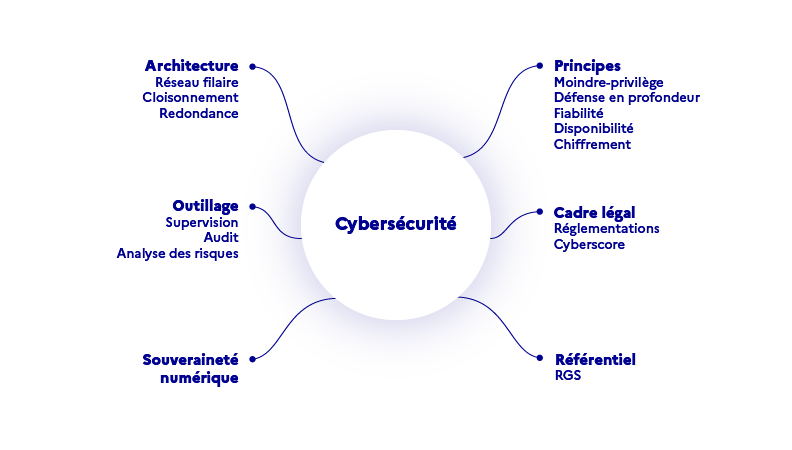
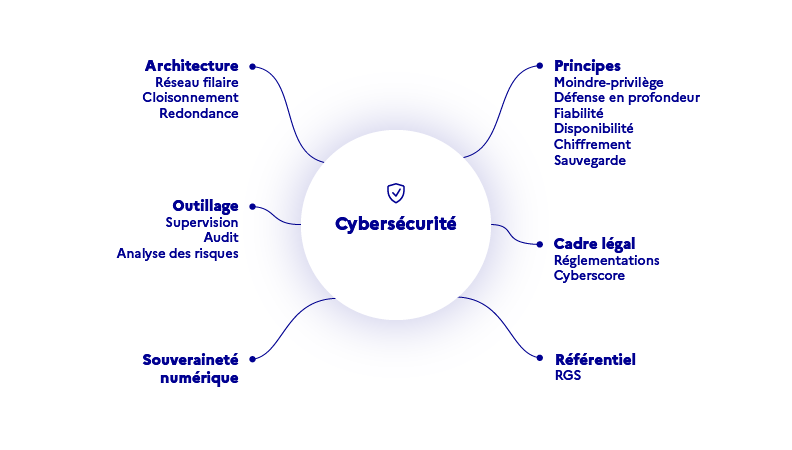
Publication restitution écoconception et sécurité

diff --git a/publications/ecoconception-securite/definitions.md b/publications/ecoconception-securite/definitions.md
@@ -1,7 +1,7 @@
 ---
 layout: layouts/ecoconception-securite.njk
 title: Définitions
-date: 2022-06-30
+date: 2022-07-01
 image: /img/ecoconception-securite/ecoconception-securite.png
 type: publication
 eleventyNavigation:
@@ -19,7 +19,7 @@ eleventyNavigation:
 
 <div class="fr-highlight">
 
-_« L’écoconception est une méthode qui vise à limiter les impacts environnementaux d’un produit ou d’un service numérique en questionnant les besoins et en prenant en compte l’impact environnemental dès la conception et sur tout le cycle de vie, dans une démarche d’amélioration continue, en intégrant les principes de minimation, stabilité, efficacité et maintenabilité »._
+_« L’écoconception est une méthode qui vise à limiter les impacts environnementaux d’un produit ou d’un service numérique en questionnant les besoins et en prenant en compte l’impact environnemental dès la conception et sur tout le cycle de vie, dans une démarche d’amélioration continue, en intégrant les principes de minimisation, stabilité, efficacité et maintenabilité »._
 
 </div>
 
@@ -37,7 +37,26 @@ Itérative, multi-étape et multicritère, et faisant l’objet d’une normalis
 
 </div>
 
-Afin de réduire ces impacts environnementaux, les bonnes pratiques sont : 
+<section class="fr-accordion">
+<h3 class="fr-accordion__title">
+<button class="fr-accordion__btn" aria-expanded="false" aria-controls="figure-acv-transcription">Transcription</button>
+</h3>
+<div class="fr-collapse" id="figure-acv-transcription">
+
+Le cycle de vie :
+
+1. Extraction des matières premières
+2. Fabrication
+3. Transport
+4. Distribution
+5. Utilisation
+6. Fin de vie ou Valorisation
+7. Dans le cas de la valorisation, possible retour en 2. Fabrication
+
+</div>
+</section>
+
+#### Afin de réduire ces impacts environnementaux, les bonnes pratiques sont : 
 
 - Réduire le nombre d’équipements et la taille des écrans
 - Allonger la durée de vie des équipements
@@ -113,3 +132,23 @@ L’ANSSI propose le [Référentiel général de sécurité (RGS)](https://www.s
 _« La cybersécurité ce n’est pas seulement les services que l’on possède et qu’on utilise pour être en interface avec l’extérieur, c’est aussi le fait qu’on a des besoins de fonctionnement de la société que l’on vient réguler. L’ANSSI est là pour défendre la Nation, pas seulement les administrations mais aussi les services essentiels, d’importance vitale, donc il y a un intérêt à réguler les pratiques de cybersécurité des structures privées en fonction des enjeux, par exemple les transports, l’éducation ou la santé »._
 
 </div>
+
+### Liens entre cybersécurité et protection des données
+
+Il existe un lien très fort entre la cybersécurité et la protection des données. La sécurité est un axe majeur de la protection des données. En effet, la protection des données implique la formalisation d’une politique de sécurité et de confidentialité des données faisant l’objet d’un traitement, afin d’éviter leur communication à des tiers voire leur transfert hors Union Européenne ou dans un pays n’ayant pas le niveau de protection adéquat. 
+
+La mise en œuvre de la sécurité du traitement des données à caractère personnel est décrite à l’article 32 du RGPD, qui liste les mesures techniques et organisationnelles appropriées devant être prises par le responsable de traitement afin de garantir un niveau de sécurité adapté au risque : 
+
+*	Pseudonymisation et chiffrement des données
+* Moyens 
+  * de garantir la confidentialité, l'intégrité, la disponibilité et la résilience constantes des systèmes et des services de traitement
+  * permettant de rétablir la disponibilité des données à caractère personnel et l'accès à celles-ci dans des délais appropriés en cas d'incident physique ou technique
+* Procédure visant à tester, à analyser et à évaluer régulièrement l'efficacité des mesures techniques et organisationnelles pour assurer la sécurité du traitement
+
+<div class="fr-highlight">
+
+Le DPO a pour rôle de s’assurer de la conformité de son organisation aux réglementations en vigueur en termes d’utilisation des données personnelles. Il est l’interlocuteur privilégié de la CNIL et du responsable de traitement. Sa fonction transverse l’amène aussi à travailler en étroite collaboration avec le RSSI (Responsable de la Sécurité des Systèmes d'Information), dont le rôle est de garantir la mise en œuvre de la sécurité des systèmes d’information.
+
+</div>
+
+Les référents des deux domaines, responsable de la sécurité des systèmes d’information et délégué à la protection des données sont des éléments indispensables à la mise en œuvre de démarches d’amélioration continue, par exemple pour prévenir les risques de violation de données.

diff --git a/publications/ecoconception-securite/cadre.md b/publications/ecoconception-securite/cadre.md
@@ -1,21 +1,19 @@
 ---
 layout: layouts/ecoconception-securite.njk
-title: Bonnes pratiques de cybersécurité, protection des données et écoconception
-date: 2022-06-30
+title: Cadre de la cybersécurité, la protection des données et l’écoconception
+date: 2022-07-01
 image: /img/ecoconception-securite/ecoconception-securite.png
 type: publication
 eleventyNavigation:
   parent: ecoconceptionSecurite
-  title: Bonnes pratiques
+  title: Cadre de l’écoconception, la cybersécurité et la protection des données
   image: /img/ecoconception-securite/ecoconception-securite.png
   order: 20
 ---
 
-Des bonnes pratiques ainsi que des synergies peu évidentes entre écoconception, cybersécurité et protection des données ont été identifiées.
-
 <div class="fr-highlight">
 
-_« Il faut penser l’écoconception le plus largement possible. Au-delà de l’exemplarité des services étatiques, on va faire en sorte que tous les référentiels soient applicables et transposables dans les organisations du monde numérique au sens large. Un des axes prioritaires est la sobriété numérique, un sujet sur lequel la cybersécurité doit se pencher assez rapidement compte-tenu de l’évolution du prix de l’énergie. Car on risque d’avoir des contraintes fortes en devenir si jamais on ne fait rien de ce côté »_ selon un participant à l’atelier écoconception, sécurité et protection des données personnelles.
+_« Il faut penser l’écoconception le plus largement possible. Au-delà de l’exemplarité des services étatiques, on va faire en sorte que tous les référentiels soient applicables et transposables dans les organisations du monde numérique au sens large. Un des axes prioritaires est la sobriété numérique, un sujet sur lequel la cybersécurité doit se pencher assez rapidement compte-tenu de l’évolution du prix de l’énergie. Car on risque d’avoir des contraintes fortes en devenir si jamais on ne fait rien de ce côté »_ selon un participant à l’atelier écoconception, sécurité et protection des données.
 
 </div>
 
@@ -43,6 +41,7 @@ _« Il faut penser l’écoconception le plus largement possible. Au-delà de l
   - Fiabilité
   - Disponibilité
   - Chiffrement
+  - Sauvegarde
 - **Cadre légal**
   - Réglementations
   - Cyberscore
@@ -57,11 +56,11 @@ _« Il faut penser l’écoconception le plus largement possible. Au-delà de l
 
 <div class="fr-highlight">
 
-_« Pour le RGPD, la majorité des organisations ont en tête les cookies et les newsletters. Quand on parle de registre de traitement et PIA, elles tombent des nues »._
+_« Pour le RGPD, la majorité des organisations ont en tête les cookies et les newsletters. Quand on parle de registre de traitement et PIA (Privacy impact assessment ou analyse d’impact), elles tombent des nues »._
 
 </div>
 
-Comme le souligne un participant, la protection des données à caractère personnel peut être perçue comme se résumant au consentement, or il s’agit d’un sujet bien plus large et surtout faisant l’objet d’une réglementation stricte dérivant d’une directive européenne qui est venue modifier la loi Informatique et Libertés de 1978. 
+Comme le souligne un participant, la protection des données à caractère personnel peut être perçue comme se résumant au consentement, or il s’agit d’un sujet bien plus vaste et surtout faisant l’objet d’une réglementation (RGPD), applicable à tous les pays européens, qui a entraîné en 2019 une mise à jour de la loi Informatiques et Libertés de 1978.
 
 ![](/img/ecoconception-securite/mindmap-protection-des-donnees.png)
 
@@ -80,8 +79,12 @@ Comme le souligne un participant, la protection des données à caractère perso
   - Etude d'impact
 - **Cadre légal**
   - RGPD : Règlement général sur la protection des données
+  - Loi Informatique et Libertés
 - **Souveraineté des données**
   - Territorialisation des données
+- **Gouvernance**
+  - Responsable de traitement
+  - Délégué à la protection des données (DPO) 
 
 </div>
 </section>

diff --git a/publications/ecoconception-securite/ecosysteme.md b/publications/ecoconception-securite/ecosysteme.md
@@ -1,7 +1,7 @@
 ---
 layout: layouts/ecoconception-securite.njk
 title: Ecosystème
-date: 2022-06-30
+date: 2022-07-01
 image: /img/ecoconception-securite/ecoconception-securite.png
 type: publication
 eleventyNavigation:
@@ -32,7 +32,8 @@ L’**[Arcep](https://www.arcep.fr/)** est une autorité administrative indépen
 
 ## Les organismes certificateurs et de normalisation
 
-**[AFNOR](https://www.afnor.org/)** : l’agence française de normalisation est un organisme certificateur agréé par la CNIL pour la certification des délégués à la protection des données. Elle publie aussi une AFNOR Spec sur l’écoconception des services numériques, un guide qui a pour objectif de fournir des lignes directrices et des recommandations concrètes applicables à chaque étape du cycle de vie du service numérique, qui a vocation à être porté au niveau européen voire international.
+* **[AFNOR](https://www.afnor.org/)** : l’agence française de normalisation est un organisme certificateur agréé par la CNIL pour la certification des délégués à la protection des données. Elle publie aussi une AFNOR Spec sur l’écoconception des services numériques, un guide qui a pour objectif de fournir des lignes directrices et des recommandations concrètes applicables à chaque étape du cycle de vie du service numérique, qui a vocation à être porté au niveau européen voire international.
+* [Liste des organismes agréés par la CNIL qui délivrent la certification des compétences du DPO](https://www.cnil.fr/fr/organisme-agrees).
 
 ## Les acteurs publics de l’écoconception de services numériques
 
@@ -52,13 +53,15 @@ L’**[Arcep](https://www.arcep.fr/)** est une autorité administrative indépen
 Il hébergent les données pour des tiers. Les enjeux qui les concernent sont la localisation des données, le niveau de sécurité, le niveau de résilience et de redondance et les impacts environnementaux liés à leurs activités (énergie, refroidissement…).
 
 - **Sous-traitants**
-Les sous-traitants doivent prendre en compte les enjeux d’écoconception, mais aussi de cybersécurité. Ils doivent se conformer aux exigences de cybersécurité définis dans le Plan d’Assurance Sécurité (PAS) et peuvent dans certains cas être qualifiés de responsables de traitement au sens du RGPD. 
+Les sous-traitants doivent prendre en compte les enjeux d’écoconception, mais aussi de cybersécurité. Ils doivent se conformer aux exigences de cybersécurité définis dans le Plan d’Assurance Sécurité (PAS) et peuvent dans certains cas être qualifiés de responsables de traitement au sens du RGPD. Les sous-traitants ont des obligations dans le cadre du RGPD et qu’il faut notamment un engagement contractuel qui définit le cadre de la sous-traitance entre le responsable de traitement et le sous-traitant ([article 28 du RGPD](https://www.cnil.fr/fr/reglement-europeen-protection-donnees/chapitre4#Article28)).
 
 et aussi : éditeurs de logiciels, formatrices/formateurs, auditrices/auditeurs, expert(e)s, associations etc.
 
 ### Métiers impliqués dans les organisations
 
 - Responsable produit
+- Délégué à la protection des données (DPD ou DPO)
+- Responsable de la sécurité des systèmes d’information (RSSI)
 - Architecte
 - Tech lead
 - UX designer

diff --git a/publications/ecoconception-securite/index.md b/publications/ecoconception-securite/index.md
@@ -1,27 +1,24 @@
 ---
 layout: layouts/ecoconception-securite.njk
 title: Écoconception, cybersécurité et protection des données, quelles synergies ?
-description: La MiNumEco organise des ateliers avec des experts et des agents publics afin d’approfondir certaines thématiques, éclairer des points précis. Cette restitution est le résultat d’un atelier consacré aux convergences entre écoconception, cybersécurité et protection des données personnelles.
-date: 2022-06-30
+description: La MiNumEco organise des ateliers avec des experts et des agents publics afin d’approfondir certaines thématiques, éclairer des points précis. Cette restitution est le résultat d’un atelier consacré aux convergences entre écoconception, cybersécurité et protection des données.
+date: 2022-07-01
 image: /img/ecoconception-securite/ecoconception-securite.png
 type: publication
-eleventyExcludeFromCollections: true
 eleventyNavigation:
   key: ecoconceptionSecurite
   parent: publications
   title: Écoconception, cybersécurité et protection des données, quelles synergies ?
-  date: 2022-06-30
+  date: 2022-07-01
   image: /img/ecoconception-securite/ecoconception-securite.png
   order: 120
 ---
-
-_**[ Version brouillon en relecture ; à ne pas partager ]**_
 
 ![]({{image}})
 
 **La maîtrise des impacts et vulnérabilités du numérique.**
 
-Les phases d’extraction et de fabrication des équipements concentrent les trois quarts des impacts environnementaux du numérique. Il est donc indispensable d’allonger leur durée de vie. Or, les systèmes d’exploitation, les logiciels et les services numériques sont de plus en plus gourmands en ressources informatiques. Les utilisateurs sont tentés de changer le matériel qui ralentit pour un plus récent. L’un des leviers pour lutter contre l’obsolescence matérielle induite par le logiciel est l’écoconception de service numérique. 
+Les phases d’extraction et de fabrication des équipements concentrent les trois quarts des impacts environnementaux du numérique. Il est donc indispensable d’allonger la durée de vie de ces équipements. Or, les systèmes d’exploitation, les logiciels et les services numériques sont de plus en plus gourmands en ressources informatiques. Les utilisateurs sont tentés de changer le matériel qui ralentit pour un plus récent. L’un des leviers pour lutter contre l’obsolescence matérielle induite par le logiciel est l’écoconception de service numérique
 
 La MiNumEco a publié en octobre 2021 avec l’Institut du Numérique Responsable, l’ADEME et le Ministère de la Transition écologique, un référentiel destiné à guider tous les acteurs impliqués dans la réalisation de services numériques vers des principes plus vertueux d’un point de vue environnemental, le [RGESN (référentiel général d’écoconception de service numérique)](publications/referentiel-general-ecoconception/). 
 
@@ -42,3 +39,6 @@ Cette restitution a été produite grâce à la participation d’experts et exp
 - Pierre Fressonnet, Banque de France
 - Fabien Gainier, Campus Cyber
 - Murielle Timsit, Gauthier Roussilhe et Romain Lorenzini, indépendants
+- Harmonie Peynot, Temesis
+
+Illustrations : Céline Berthaut

diff --git a/publications/ecoconception-securite/conclusion.md b/publications/ecoconception-securite/conclusion.md
@@ -1,7 +1,7 @@
 ---
 layout: layouts/ecoconception-securite.njk
 title: Conclusion et perspectives
-date: 2022-06-30
+date: 2022-07-01
 image: /img/ecoconception-securite/ecoconception-securite.png
 type: publication
 eleventyNavigation:
@@ -11,11 +11,11 @@ eleventyNavigation:
   order: 35
 ---
 
-Opposer les nécessités de cybersécurité et protection des données à caractère personnel et les enjeux environnementaux n’a pas vraiment de sens, tant les bonnes pratiques d’écoconception vont dans la même direction. L’amélioration de l’empreinte environnementale d’un service numérique et la réduction de l’obsolescence des matériels sont potentiellement aussi favorables à une meilleure sécurité des données et des systèmes. Toutefois, des mesures de protection plus profondes peuvent augmenter la consommation de ressources informatiques et énergétiques d’un service numérique.
+Opposer les nécessités de cybersécurité et protection des données et les enjeux environnementaux n’a pas vraiment de sens, tant les bonnes pratiques d’écoconception vont dans la même direction. L’amélioration de l’empreinte environnementale d’un service numérique et la réduction de l’obsolescence des matériels sont potentiellement aussi favorables à une meilleure sécurité des données et des systèmes. Toutefois, des mesures de protection plus profondes peuvent augmenter la consommation de ressources informatiques et énergétiques d’un service numérique.
 
 **Vers un référentiel commun ?**
 
-Selon les experts ayant participé à cette publication, la question d’un référentiel commun qui rassemblerait les enjeux d’écoconception, cybersécurité et protection des données se pose. Il existe cependant une hiérarchie des importances qui implique une impossibilité de positionner au même niveau ces différents enjeux. La loi de programmation militaire est par exemple prioritaire au RGAA. Il est aussi obligatoire d’implémenter le RGS pour les organisations d’importance vitale (OIV).
+Selon les experts ayant participé à cette publication, la question d’un référentiel commun qui rassemblerait les enjeux d’écoconception, cybersécurité et protection des données se pose. Il existe cependant une hiérarchie des importances qui implique une impossibilité de positionner au même niveau ces différents enjeux. La loi de programmation militaire est par exemple prioritaire au RGAA. Il est aussi obligatoire d’implémenter le RGS pour les opérateurs d’importance vitale (OIV).
 
 **Vers une régulation des métiers du numérique ?**
 

diff --git a/publications/ecoconception-securite/glossaire.md b/publications/ecoconception-securite/glossaire.md
@@ -1,7 +1,7 @@
 ---
 layout: layouts/ecoconception-securite.njk
 title: Glossaire
-date: 2022-06-30
+date: 2022-07-01
 image: /img/ecoconception-securite/ecoconception-securite.png
 type: publication
 eleventyNavigation:
@@ -25,16 +25,28 @@ eleventyNavigation:
 
 **DICT** : Disponibilité, intégrité, confidentialité, traçabilité
 
+**DPD** : Délégué à la protection des données (en français)
+
+**DPO** : Data Protection Officer en anglais, correspond à délégué à la protection des données
+
 **OIV** : opérateur d’importance vitale
 
 **PAS** : plan d’assurance sécurité
 
-**RGAA** : référentiel général d’amélioration de l’accessibilité
+**PCA** : plan de continuité d’activité
 
-**RGESN** : référentiel général d’écoconception de service numérique
+**PIA** : Privacy impact assessment ou analyse d’impact sur la protection des données (AIPD) cité dans la partie Bonnes pratiques.
 
-**RGI** : référentiel général d’interopérabilité
+**PRA** : plan de reprise d’activité
 
-**RGPD** : règlement général sur la protection des données
+**RGAA** : [référentiel général d’amélioration de l’accessibilité](https://www.numerique.gouv.fr/publications/rgaa-accessibilite/)
 
-**RGS** : règlement général de sécurité
+**RGESN** : [référentiel général d’écoconception de service numérique](/publications/referentiel-general-ecoconception/)
+
+**RGI** : [référentiel général d’interopérabilité](https://www.numerique.gouv.fr/publications/interoperabilite/)
+
+**RGPD** : [règlement général sur la protection des données](https://www.cnil.fr/fr/reglement-europeen-protection-donnees)
+
+**RGS** : [règlement général de sécurité](https://www.ssi.gouv.fr/entreprise/reglementation/confiance-numerique/le-referentiel-general-de-securite-rgs/)
+
+**RSSI** : Responsable de la sécurité des systèmes d’information 

diff --git a/publications/ecoconception-securite/ressources-complementaires.md b/publications/ecoconception-securite/ressources-complementaires.md
@@ -1,7 +1,7 @@
 ---
 layout: layouts/ecoconception-securite.njk
 title: Ressources complémentaires
-date: 2022-06-30
+date: 2022-07-01
 image: /img/ecoconception-securite/ecoconception-securite.png
 type: publication
 eleventyNavigation:
@@ -31,9 +31,14 @@ eleventyNavigation:
 ## Protection des données
 
 - [RGPD – Règlement général sur la protection des données](https://www.cnil.fr/fr/reglement-europeen-protection-donnees)
+- [Loi informatique et libertés de 1978](https://www.cnil.fr/fr/la-loi-informatique-et-libertes)
+- [Nouvelle loi informatique et libertés de 2019](https://www.cnil.fr/fr/entree-en-vigueur-de-la-nouvelle-loi-informatique-et-libertes-et-de-son-nouveau-decret-dapplication)
 - [La forme des choix : données personnelles, design et frictions désirables, CNIL](https://www.cnil.fr/sites/default/files/atoms/files/cnil_cahiers_ip6.pdf)
 - [Certification des compétences du DPO](https://www.cnil.fr/fr/certification-des-competences-du-dpo-0)
 - [Nouveaux outils de conformité - Codes de conduite](https://www.cnil.fr/fr/le-code-de-conduite)
+- [Nouvelle version du MOOC de la CNIL : l’Atelier RGPD](https://www.cnil.fr/fr/le-mooc-de-la-cnil-est-de-retour-dans-une-nouvelle-version-enrichie)
+- [Accessibilité et conformité RGPD](https://www.24joursdeweb.fr/2021/la-recette-des-cookies-double-pepites-privacy-et-accessibilite/)
+- [La sécurité des données personnelles](https://www.cnil.fr/sites/default/files/atoms/files/cnil_guide_securite_personnelle.pdf)
 
 ## Autres
 

diff --git a/publications/videos-vers-un-numerique-ecoresponsable/episode-8-enjeux-environnementaux-du-design.md b/publications/videos-vers-un-numerique-ecoresponsable/episode-8-enjeux-environnementaux-du-design.md
@@ -2,7 +2,7 @@
 layout: layouts/video.njk
 title: "Épisode #8 : Enjeux environnementaux du design des services numériques"
 description: Dans ce 8ème épisode Marine Boudeau explique le rôle joué par le design des services numériques dans l'inclusion et la protection de l'environnement.
-date: 2022-06-30
+date: 2022-07-01
 image: /img/videos/apercu-episode8.jpg
 embedVideoUrl: https://www.dailymotion.com/embed/video/k2wLC76lholA6yy3RCE
 tags: ["video"]

diff --git a/publications/ecoconception-securite/quiz.md b/publications/ecoconception-securite/quiz.md
@@ -1,7 +1,7 @@
 ---
 layout: layouts/ecoconception-securite.njk
 title: Quiz sur les synergies entre enjeux environnementaux, sécurité et protection des données
-date: 2022-06-30
+date: 2022-07-01
 image: /img/ecoconception-securite/ecoconception-securite.png
 extrajs: /js/quiz.js
 type: publication
